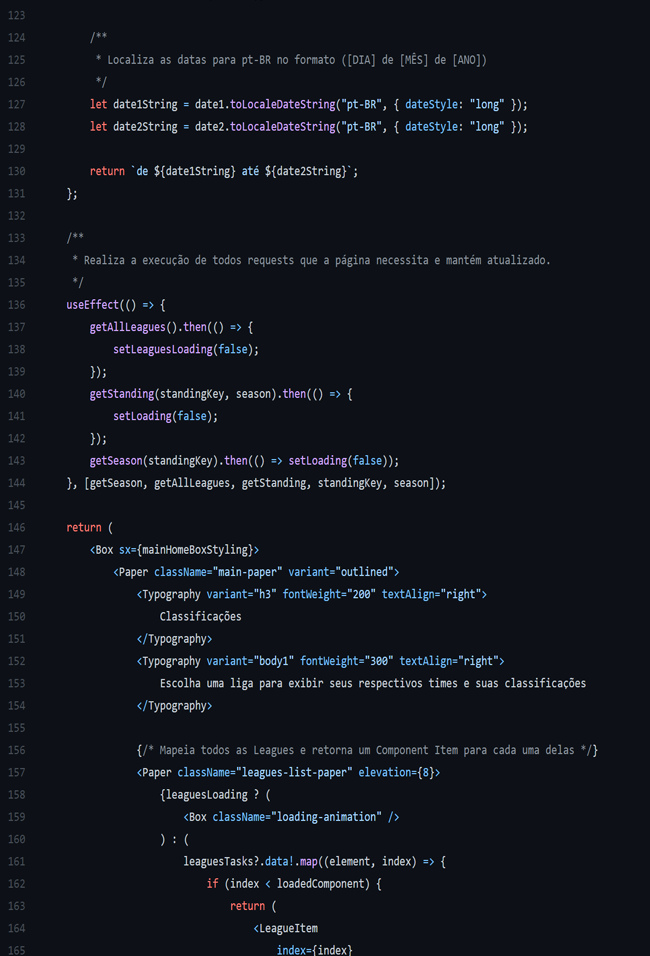
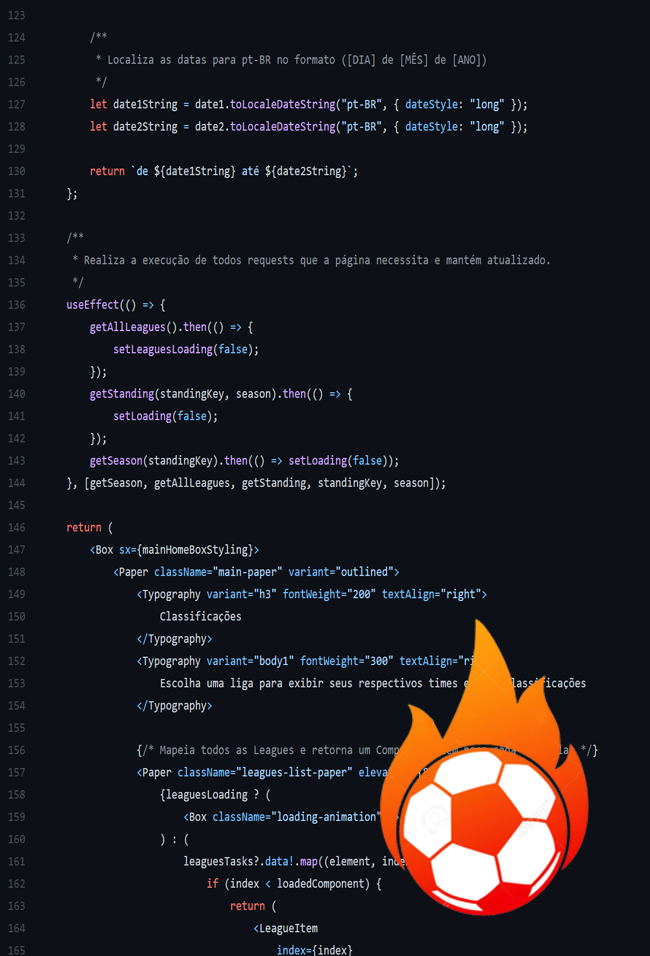
added new project to the react page

Changed region(s): [[0.5846, 0.637, 0.9231, 0.9707]]

diff --git a/src/components/TechPages/REACTPage.tsx b/src/components/TechPages/REACTPage.tsx
@@ -3,7 +3,7 @@ import ReactIMGMin from "../../images/reactcode-min.png";
 import Repo from "./model/Repo";
 import PageModel from "./model/PageModel";
 import { CodeLink } from "./model/CodeLink";
-// import videotest from "../../images/video.webm";
+import bbStandings from "../../images/bbstandings.png";
 
 interface Props {
     growIn: boolean;
@@ -93,6 +93,71 @@ export const REACTPage: React.FC<Props> = ({ growIn, image }) => {
                 </ul>
                 If you want to help me develop my website, feel free to send requests to this
                 repository.
+            </Repo>
+            <Repo
+                largeImage={bbStandings}
+                largeImageLink="https://github.com/fobdev/standings/blob/master/src/pages/Home.tsx"
+                largeImagePlaceholder={ReactIMGMin}
+                repoLink="https://github.com/fobdev/standings/"
+                side="right"
+                title="standings-fetch"
+            >
+                This is a project that I made as a test for a company, where they wanted me to fetch
+                the contents of a public API that contains{" "}
+                <CodeLink link="https://github.com/azharimm/football-standings-api">
+                    Football Standings
+                </CodeLink>{" "}
+                from several Leagues, and my job was to show the content in a table, for each of the
+                leagues available. I mainly used{" "}
+                <CodeLink link="https://www.npmjs.com/package/axios">axios</CodeLink> for the fetch
+                requests and made a Typescript fetcher using interfaces to get the JSON objects
+                <ul>
+                    React Typescript modules used
+                    <li>
+                        <CodeLink link="https://www.npmjs.com/package/@types/react">
+                            @types/react
+                        </CodeLink>
+                    </li>
+                    <li>
+                        <CodeLink link="https://www.npmjs.com/package/@types/react-dom">
+                            @types/react-dom
+                        </CodeLink>
+                    </li>
+                    <li>
+                        <CodeLink link="https://www.npmjs.com/package/@types/react-router-dom">
+                            @types/react-router-dom
+                        </CodeLink>
+                    </li>
+                </ul>
+                <ul>
+                    Other Typescript modules
+                    <li>
+                        <CodeLink link="https://www.npmjs.com/package/@types/node">
+                            @types/node
+                        </CodeLink>
+                    </li>
+                </ul>
+                <ul>
+                    Other modules
+                    <li>
+                        <CodeLink link="https://www.npmjs.com/package/@mui/icons-material">
+                            @mui/icons-material
+                        </CodeLink>
+                    </li>
+                    <li>
+                        <CodeLink link="https://www.npmjs.com/package/@mui/material">
+                            @mui/material
+                        </CodeLink>
+                    </li>
+                    <li>
+                        <CodeLink link="https://www.npmjs.com/package/@mui/lab">@mui/lab</CodeLink>
+                    </li>
+                    <li>
+                        <CodeLink link="https://www.npmjs.com/package/axios">axios</CodeLink>
+                    </li>
+                </ul>
+                Feel free to check it, I created a fetch system with axios that is completely
+                modular, and I use it basically all my projects that I need API fetching
             </Repo>
         </PageModel>
     );
